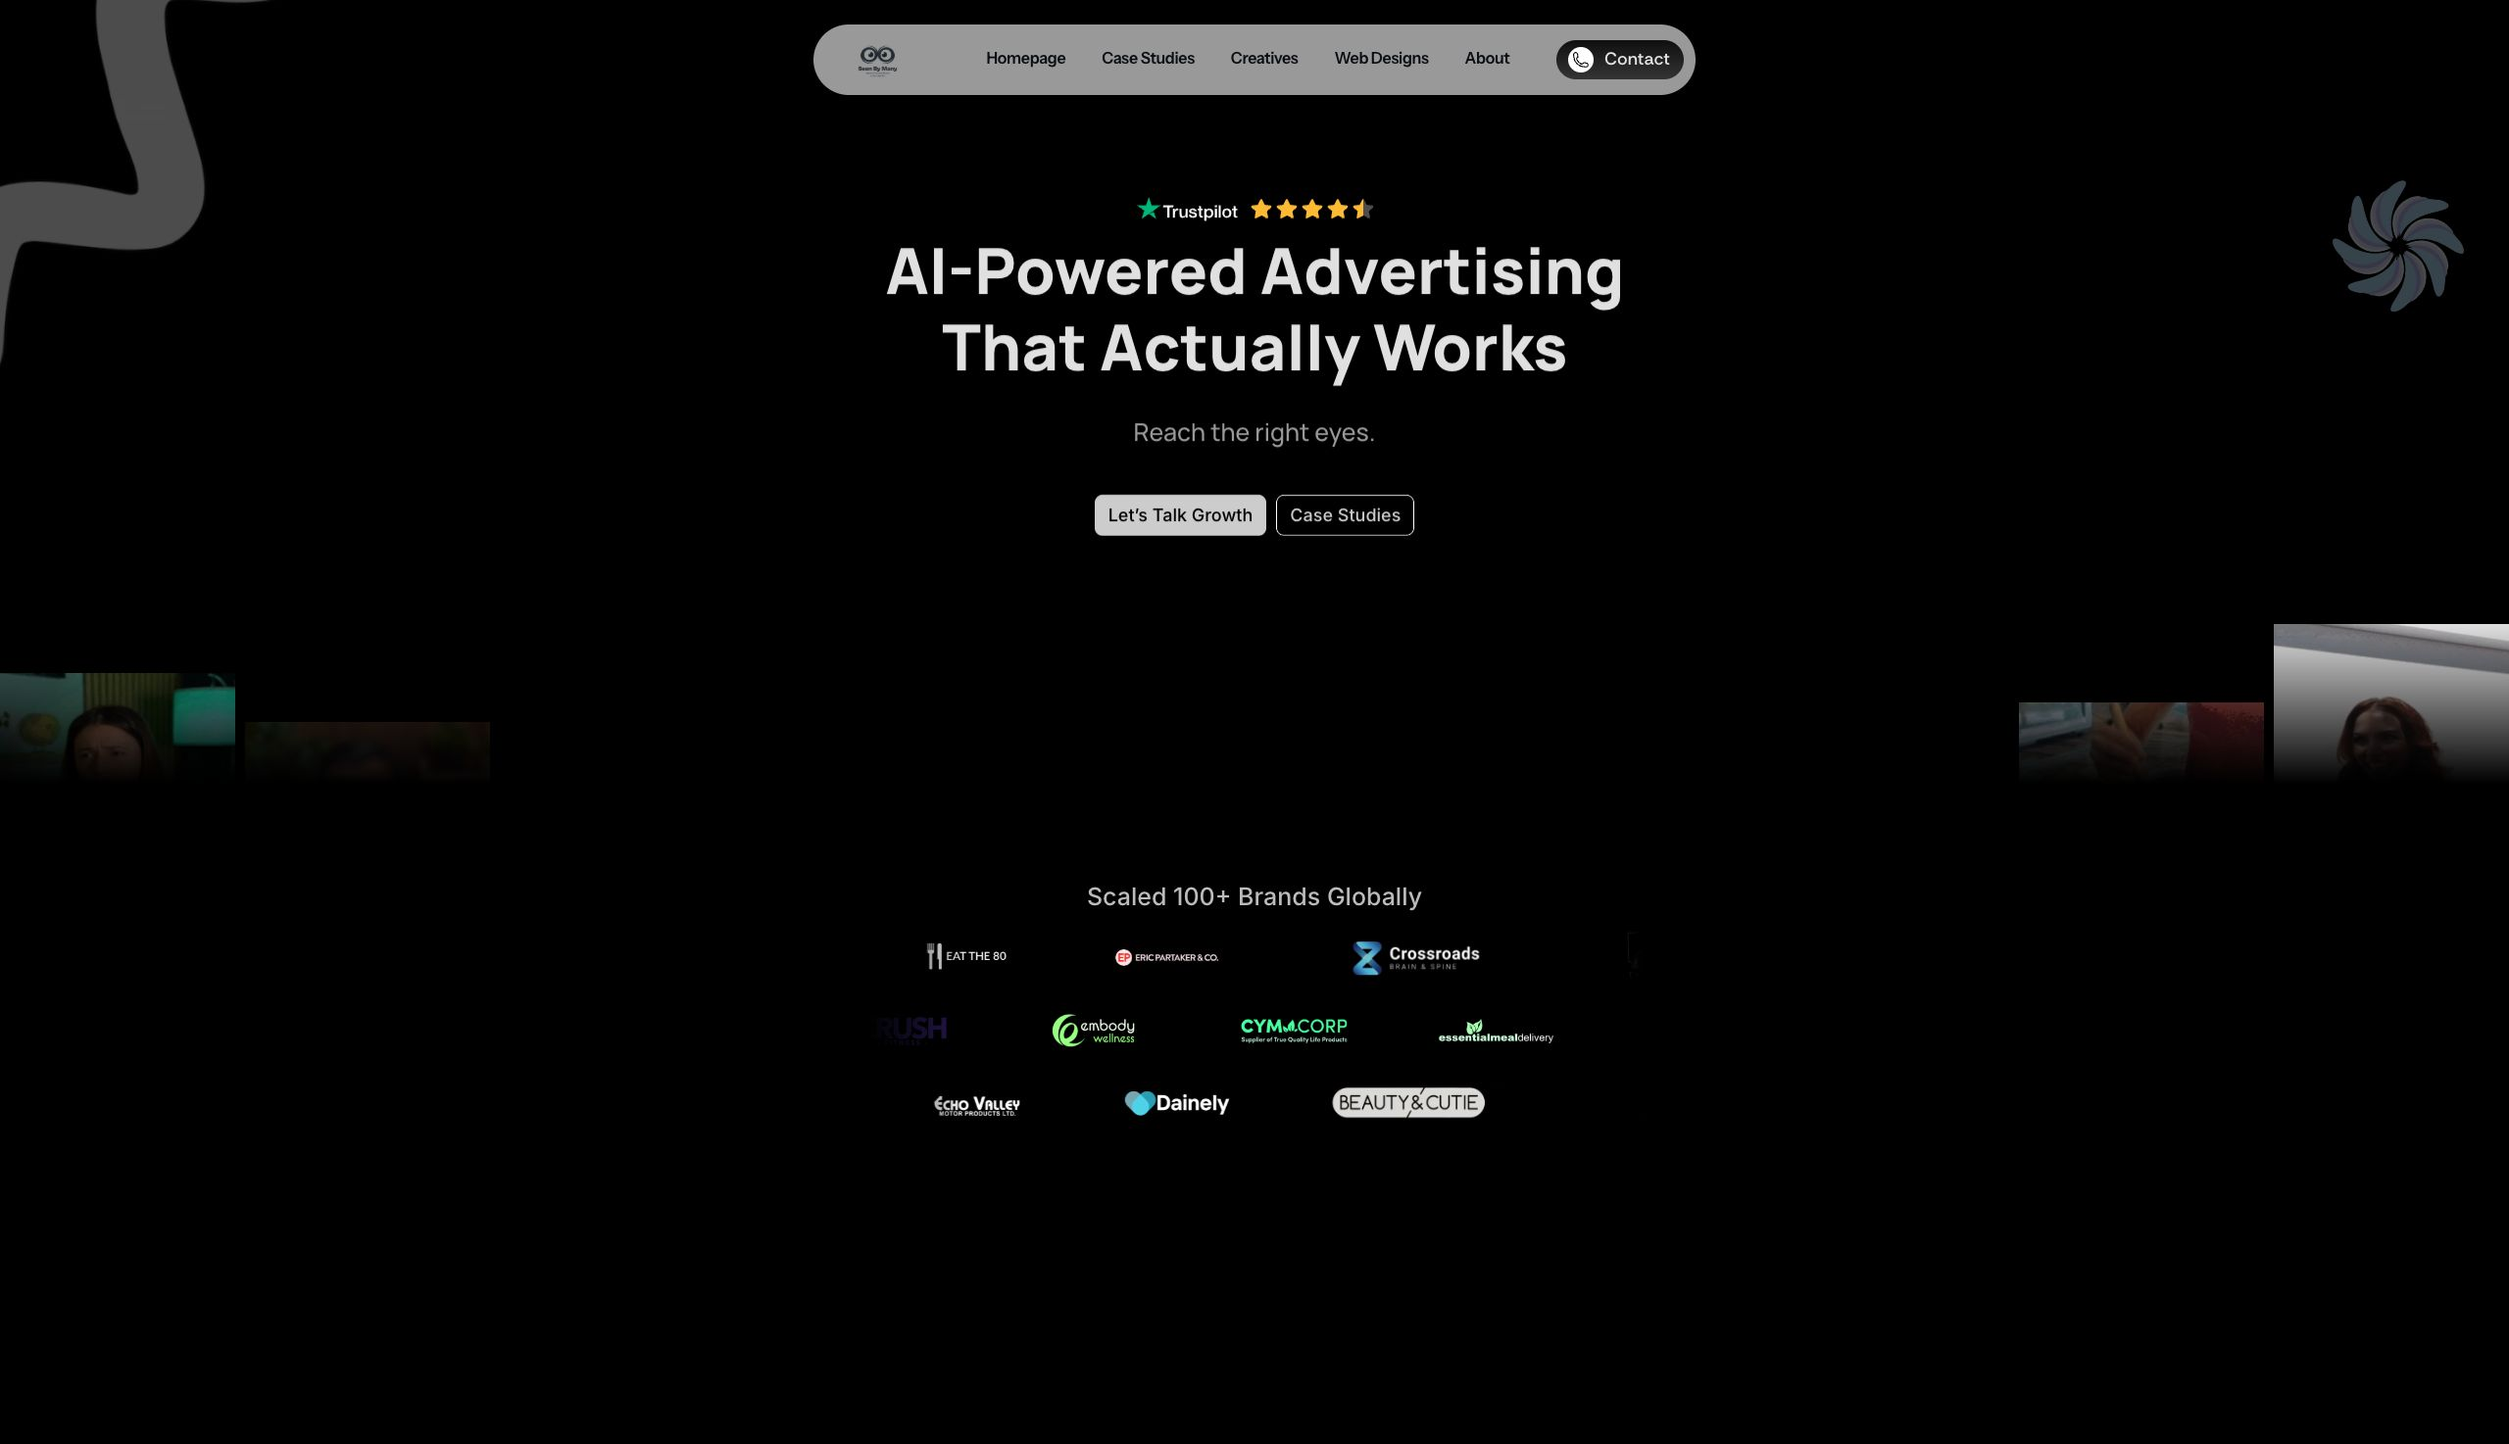
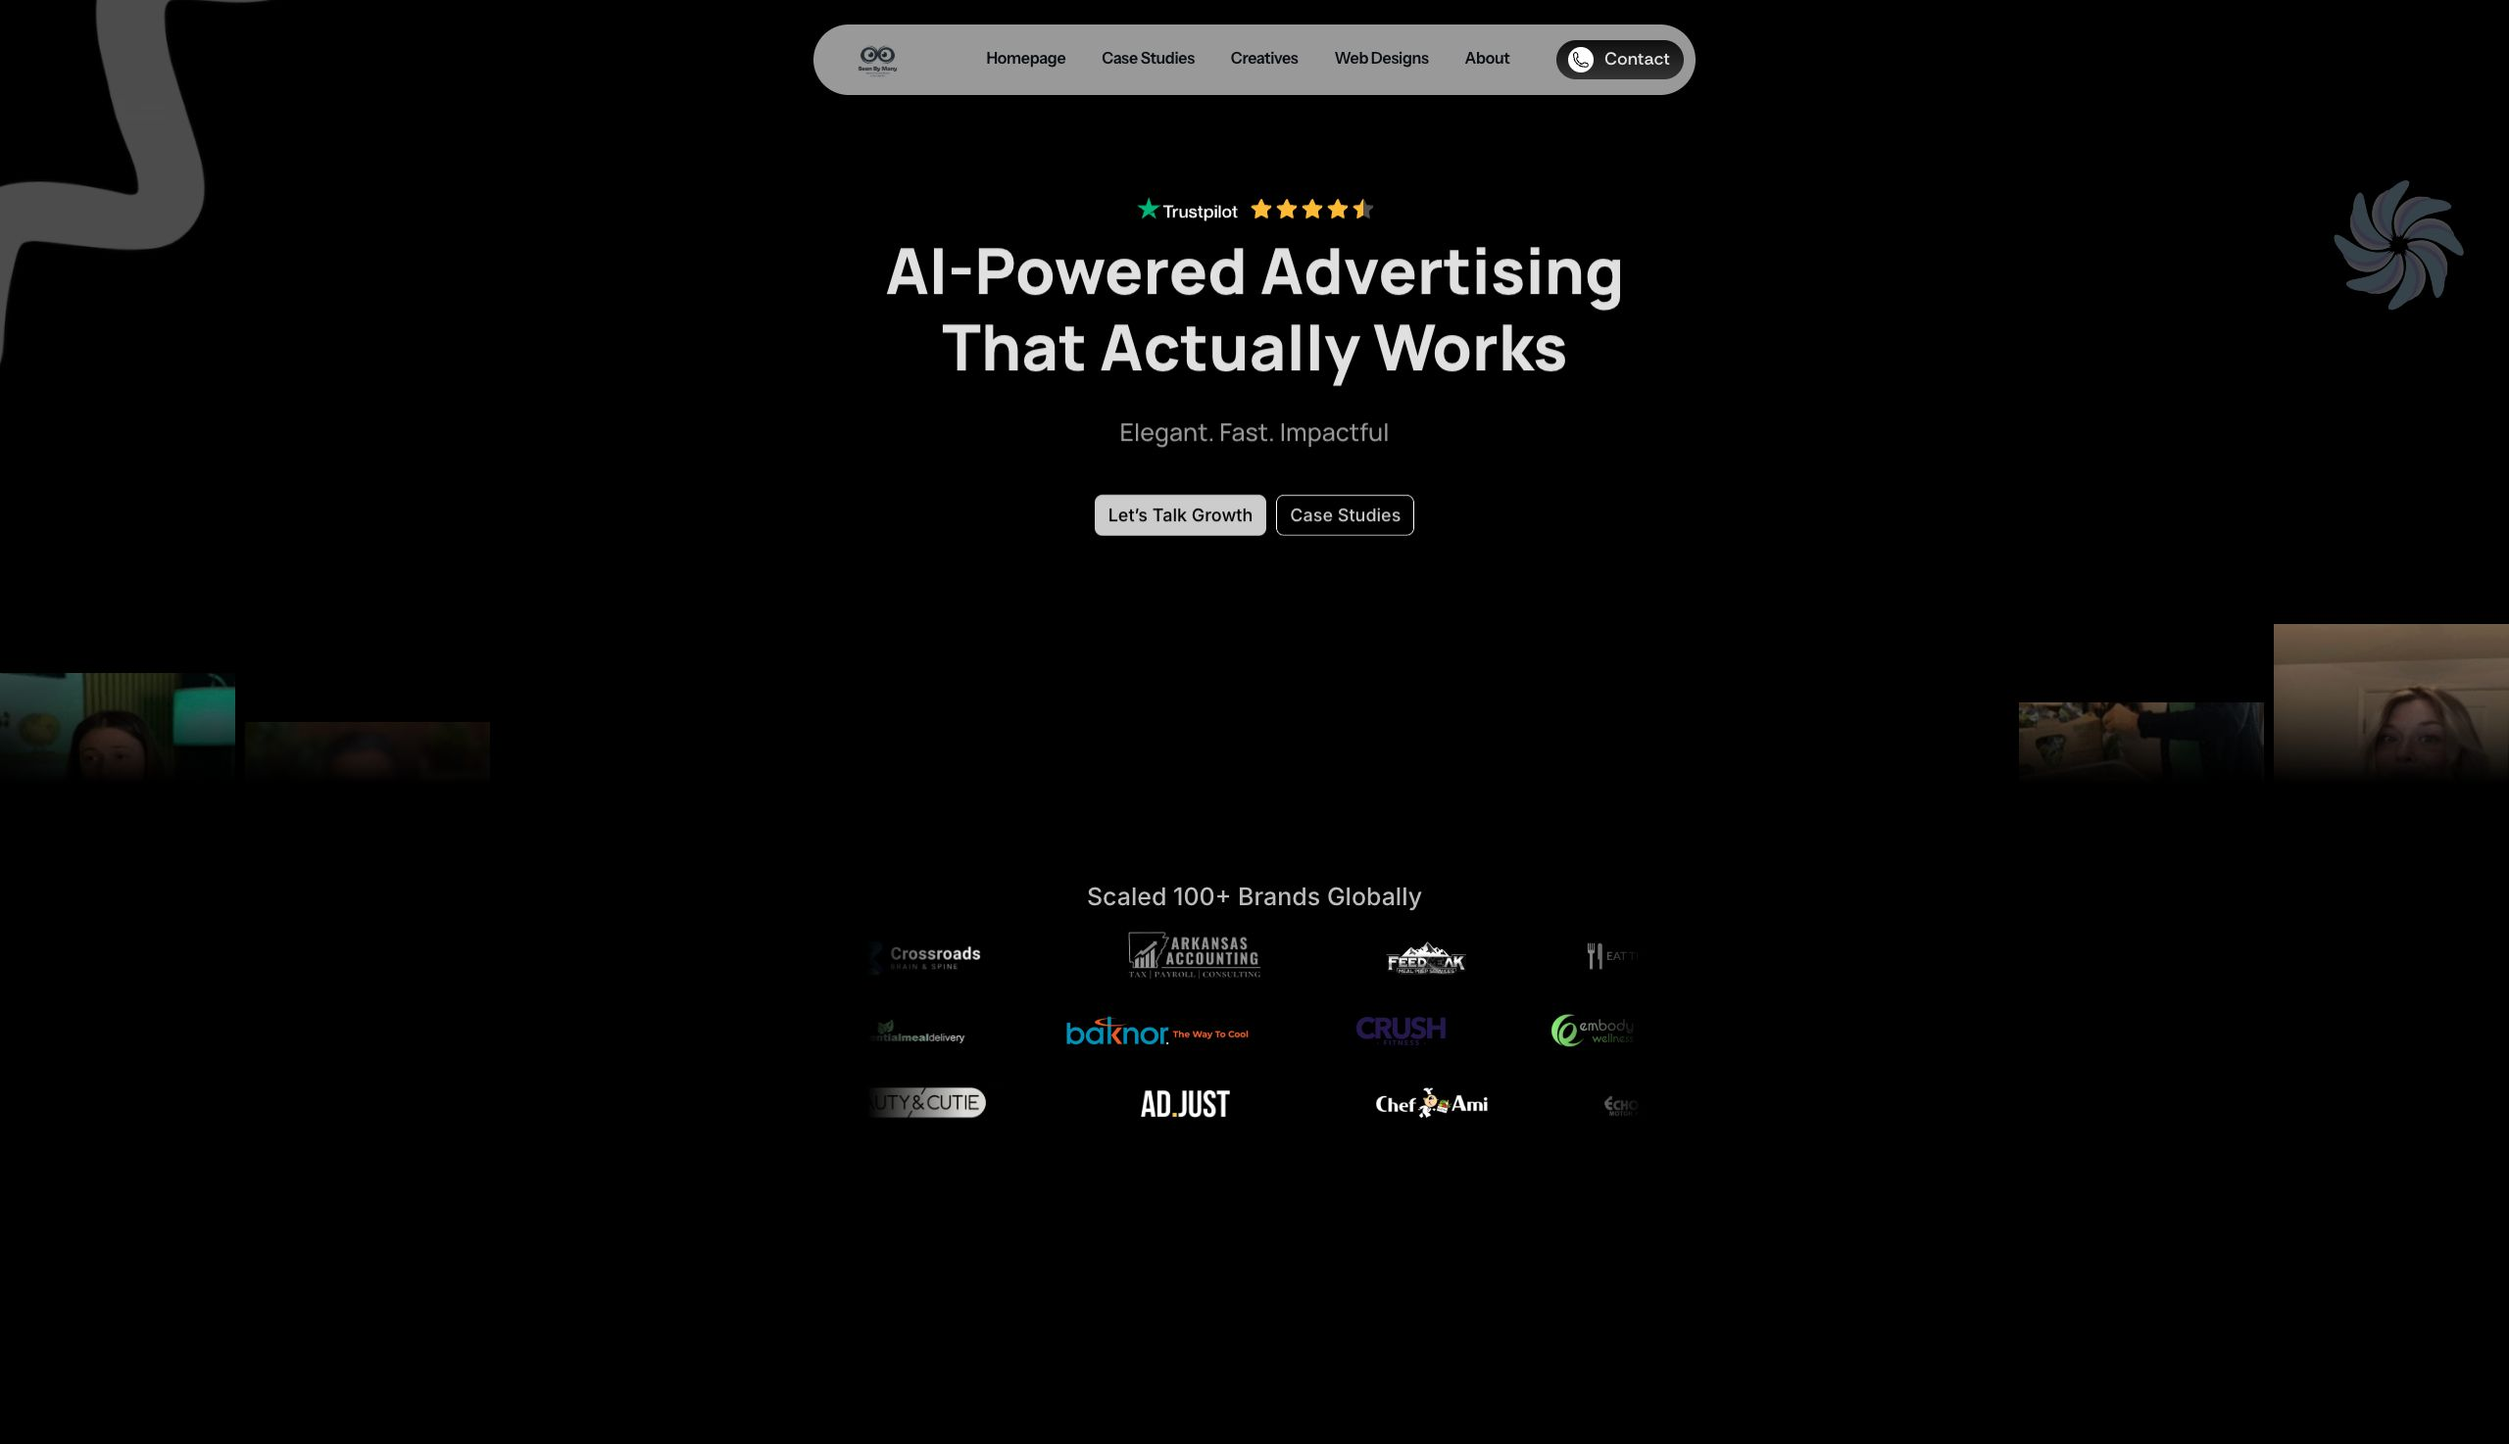
Show every site preview whole, from the very top, uncropped
- Drop the scroll pan and fixed frame ratios on the work spreads, home
  case cards, and embedded work rows: each screenshot now displays at
  its own natural ratio, full width, nothing clipped at any edge
- Retake the Seen By Many cover with a full lazy-load pass so the
  client logo wall renders complete
- Bump case-showcase, case-home, and work-index stylesheet versions

diff --git a/assets/css/case-showcase.css b/assets/css/case-showcase.css
@@ -10,10 +10,10 @@
    gutter rather than being clipped by it.
 
    Interaction is scroll-driven, never hover-driven, so a phone gets exactly
-   what a desktop gets. Two mechanics only, and they share one signal (--p,
-   the card's progress across the viewport, set by case-showcase.js):
-     1. the shot pans a few percent inside its frame
-     2. the accent rule beside the index numeral draws itself
+   what a desktop gets. One mechanic only, driven by the card's progress
+   across the viewport (set by case-showcase.js): the accent rule on the meta
+   line draws itself. The shot itself is never panned, scaled, or cropped -
+   the full screenshot shows from its very top edge, always.
    Rows carry :active press feedback and a :focus-visible ring. There is no
    hover state on the cards - the work is what is being sold, so it is shown
    outright rather than hidden behind an interaction a touch device can never
@@ -129,31 +129,21 @@
 /* ============ 04 THE SHOT ============ */
 .cs-shot{
   position:relative;z-index:2;display:block;overflow:hidden;
-  /* the frame owns the ratio, not the image - that is what gives the image a
-     definite height to be 106% of, and what stops the pan resizing the card */
-  aspect-ratio:2904/1672;
   background:var(--paper-deep);
   border:1px solid var(--line);
   /* the lift is tinted with the card's own accent, so the colour reaches the
-     imagery instead of living only in the numeral */
+     imagery instead of living only in the type */
   box-shadow:
     0 48px 92px -46px var(--ac-lift),
     0 16px 38px -20px rgba(15,25,70,.28),
     inset 0 1px 0 rgba(255,255,255,.5);
   transform:translateZ(0);
 }
+/* The screenshot displays whole at its own ratio: full width, natural height,
+   nothing cropped and nothing panned. The width/height attributes on the img
+   reserve the box before load, so the layout never shifts. */
 .cs-shot img{
-  position:absolute;top:0;left:0;
-  display:block;width:100%;height:100%;
-  object-fit:cover;object-position:top center;
-}
-/* Oversize only when the pan is actually running: 106% against the frame gives
-   it six points of travel, and the crop that buys is ~3% top and bottom,
-   invisible on a site screenshot. Left alone, the shot sits uncropped. */
-[data-cs-live] .cs-shot img{
-  height:106%;
-  transform:translate3d(0,calc(var(--p,.5) * -6%),0);
-  will-change:transform;
+  display:block;width:100%;height:auto;
 }
 /* Odd cards run off the left edge, even cards off the right. The flat side is
    always the side that leaves the page. */

diff --git a/assets/css/case-home.css b/assets/css/case-home.css
@@ -87,9 +87,6 @@
 /* ============ 04 THE SHOT ============ */
 .csh-shot{
   position:relative;display:block;overflow:hidden;
-  /* the frame owns the ratio so the image has a definite box to ease inside
-     and the row height never shifts as it loads */
-  aspect-ratio:2904/1672;
   border-radius:var(--csh-r);
   background:var(--paper-deep);
   border:1px solid var(--line);
@@ -99,18 +96,11 @@
     inset 0 1px 0 rgba(255,255,255,.5);
   transform:translateZ(0);
 }
+/* The screenshot displays whole at its own ratio: full width, natural height,
+   nothing cropped and nothing panned. The width/height attributes on the img
+   reserve the box before load, so the row never shifts as it loads. */
 .csh-shot img{
-  position:absolute;top:0;left:0;
-  display:block;width:100%;height:100%;
-  object-fit:cover;object-position:top center;
-}
-/* Oversize only while the pan is running: 105% against the frame gives it
-   five points of travel, a crop of ~2.5% top and bottom that is invisible on
-   a site screenshot. Left alone, the shot sits uncropped. */
-[data-cs-live] .csh-shot img{
-  height:105%;
-  transform:translate3d(0,calc(var(--p,.5) * -5%),0);
-  will-change:transform;
+  display:block;width:100%;height:auto;
 }
 
 /* ============ 05 THE TEXT COLUMN ============ */

diff --git a/index.html b/index.html
@@ -39,7 +39,7 @@
 <link rel="preload" href="assets/fonts/archivo-latin.woff2" as="font" type="font/woff2" crossorigin>
 
 <link rel="stylesheet" href="assets/css/main.css?v=25">
-<link rel="stylesheet" href="assets/css/case-home.css?v=3">
+<link rel="stylesheet" href="assets/css/case-home.css?v=4">
 <link rel="stylesheet" href="assets/css/services-bento.css?v=5">
 
 <!-- Structured data -->

diff --git a/work/index.html b/work/index.html
@@ -39,7 +39,7 @@
 
 <link rel="stylesheet" href="../assets/css/main.css?v=25">
 <link rel="stylesheet" href="../assets/css/services.css?v=2">
-<link rel="stylesheet" href="../assets/css/case-showcase.css?v=2">
+<link rel="stylesheet" href="../assets/css/case-showcase.css?v=3">
 
 <!-- Structured data -->
 <script type="application/ld+json">

diff --git a/industries/ecommerce.html b/industries/ecommerce.html
@@ -39,7 +39,7 @@
 
 <link rel="stylesheet" href="../assets/css/main.css?v=25">
 <link rel="stylesheet" href="../assets/css/services.css?v=2">
-<link rel="stylesheet" href="../assets/css/work-index.css?v=23">
+<link rel="stylesheet" href="../assets/css/work-index.css?v=24">
 
 <!-- Structured data -->
 <script type="application/ld+json">

diff --git a/industries/healthcare.html b/industries/healthcare.html
@@ -39,7 +39,7 @@
 
 <link rel="stylesheet" href="../assets/css/main.css?v=25">
 <link rel="stylesheet" href="../assets/css/services.css?v=2">
-<link rel="stylesheet" href="../assets/css/work-index.css?v=23">
+<link rel="stylesheet" href="../assets/css/work-index.css?v=24">
 
 <!-- Structured data -->
 <script type="application/ld+json">

diff --git a/industries/home-builders.html b/industries/home-builders.html
@@ -39,7 +39,7 @@
 
 <link rel="stylesheet" href="../assets/css/main.css?v=25">
 <link rel="stylesheet" href="../assets/css/services.css?v=2">
-<link rel="stylesheet" href="../assets/css/work-index.css?v=23">
+<link rel="stylesheet" href="../assets/css/work-index.css?v=24">
 
 <!-- Structured data -->
 <script type="application/ld+json">

diff --git a/industries/saas-startups.html b/industries/saas-startups.html
@@ -39,7 +39,7 @@
 
 <link rel="stylesheet" href="../assets/css/main.css?v=25">
 <link rel="stylesheet" href="../assets/css/services.css?v=2">
-<link rel="stylesheet" href="../assets/css/work-index.css?v=23">
+<link rel="stylesheet" href="../assets/css/work-index.css?v=24">
 
 <!-- Structured data -->
 <script type="application/ld+json">

diff --git a/locations/markham.html b/locations/markham.html
@@ -39,7 +39,7 @@
 
 <link rel="stylesheet" href="../assets/css/main.css?v=25">
 <link rel="stylesheet" href="../assets/css/services.css?v=2">
-<link rel="stylesheet" href="../assets/css/work-index.css?v=23">
+<link rel="stylesheet" href="../assets/css/work-index.css?v=24">
 
 <!-- Structured data -->
 <script type="application/ld+json">

diff --git a/locations/mississauga.html b/locations/mississauga.html
@@ -39,7 +39,7 @@
 
 <link rel="stylesheet" href="../assets/css/main.css?v=25">
 <link rel="stylesheet" href="../assets/css/services.css?v=2">
-<link rel="stylesheet" href="../assets/css/work-index.css?v=23">
+<link rel="stylesheet" href="../assets/css/work-index.css?v=24">
 
 <!-- Structured data -->
 <script type="application/ld+json">

diff --git a/locations/ottawa.html b/locations/ottawa.html
@@ -39,7 +39,7 @@
 
 <link rel="stylesheet" href="../assets/css/main.css?v=25">
 <link rel="stylesheet" href="../assets/css/services.css?v=2">
-<link rel="stylesheet" href="../assets/css/work-index.css?v=23">
+<link rel="stylesheet" href="../assets/css/work-index.css?v=24">
 
 <!-- Structured data -->
 <script type="application/ld+json">

diff --git a/locations/toronto.html b/locations/toronto.html
@@ -39,7 +39,7 @@
 
 <link rel="stylesheet" href="../assets/css/main.css?v=25">
 <link rel="stylesheet" href="../assets/css/services.css?v=2">
-<link rel="stylesheet" href="../assets/css/work-index.css?v=23">
+<link rel="stylesheet" href="../assets/css/work-index.css?v=24">
 
 <!-- Structured data -->
 <script type="application/ld+json">
